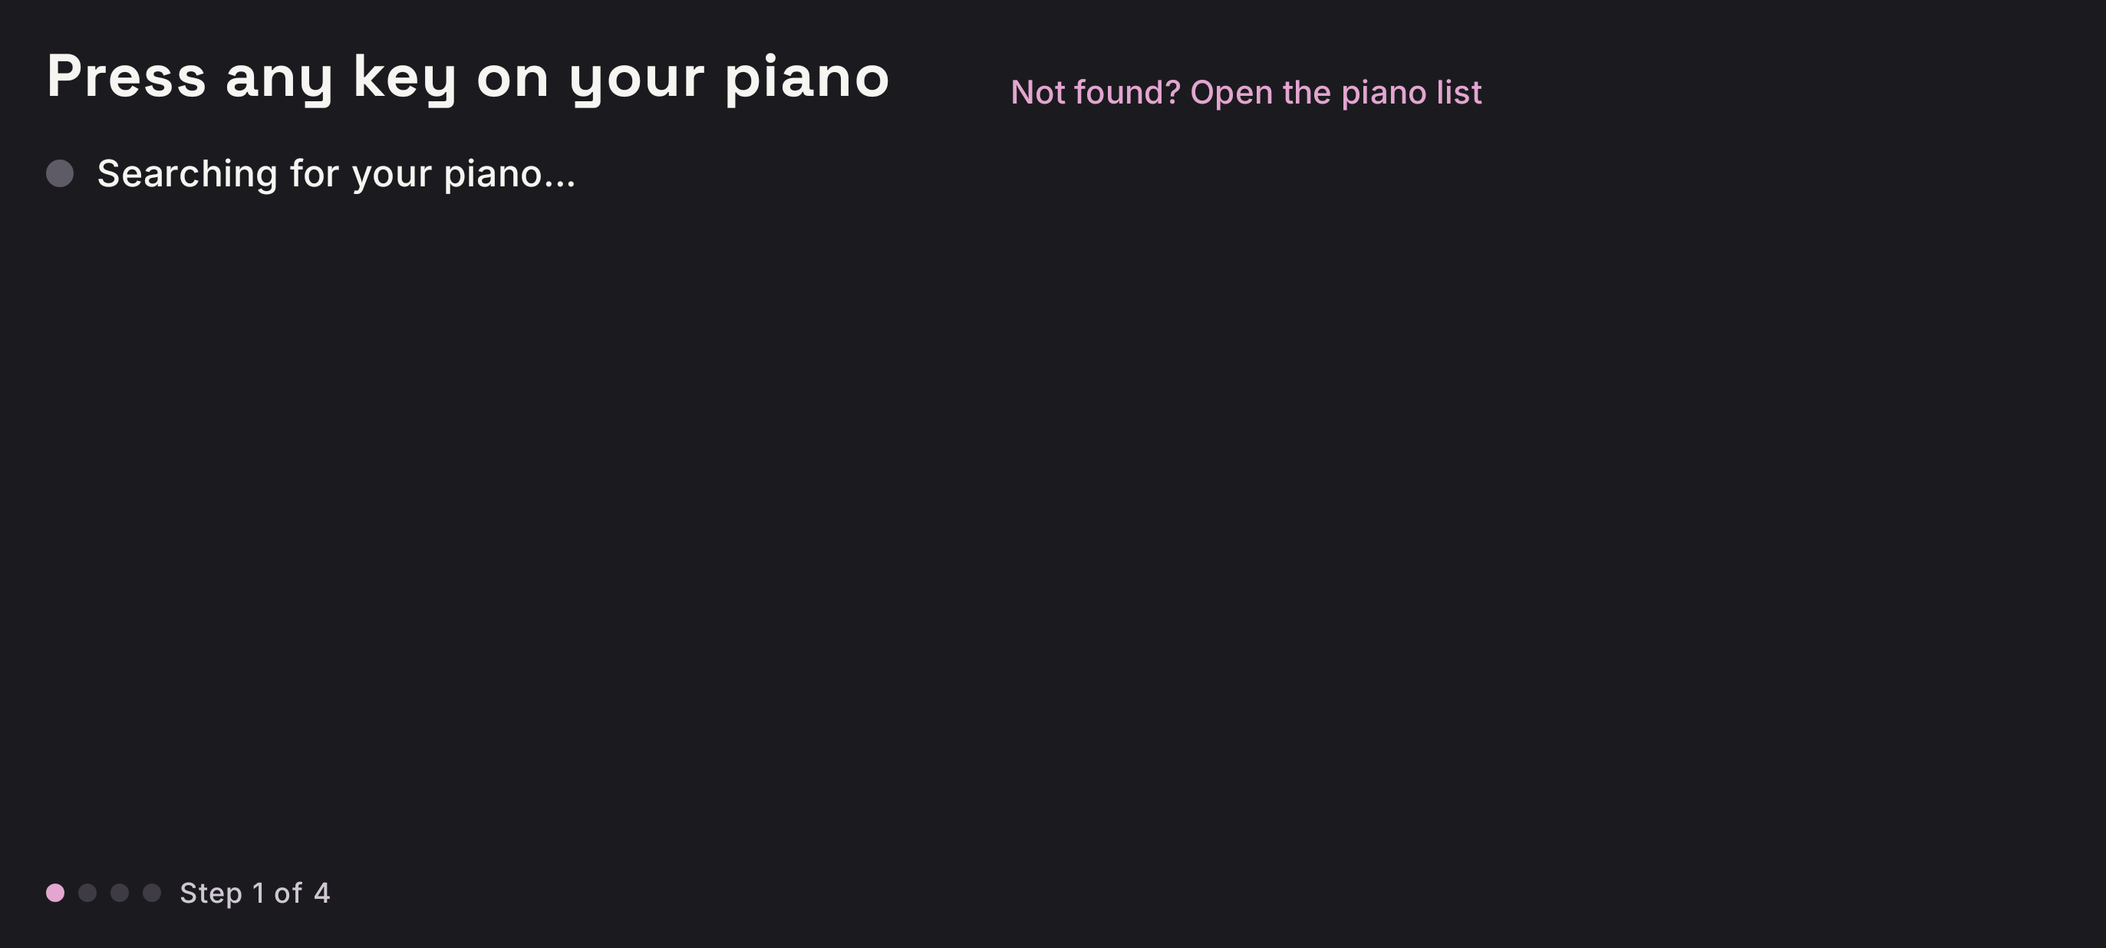
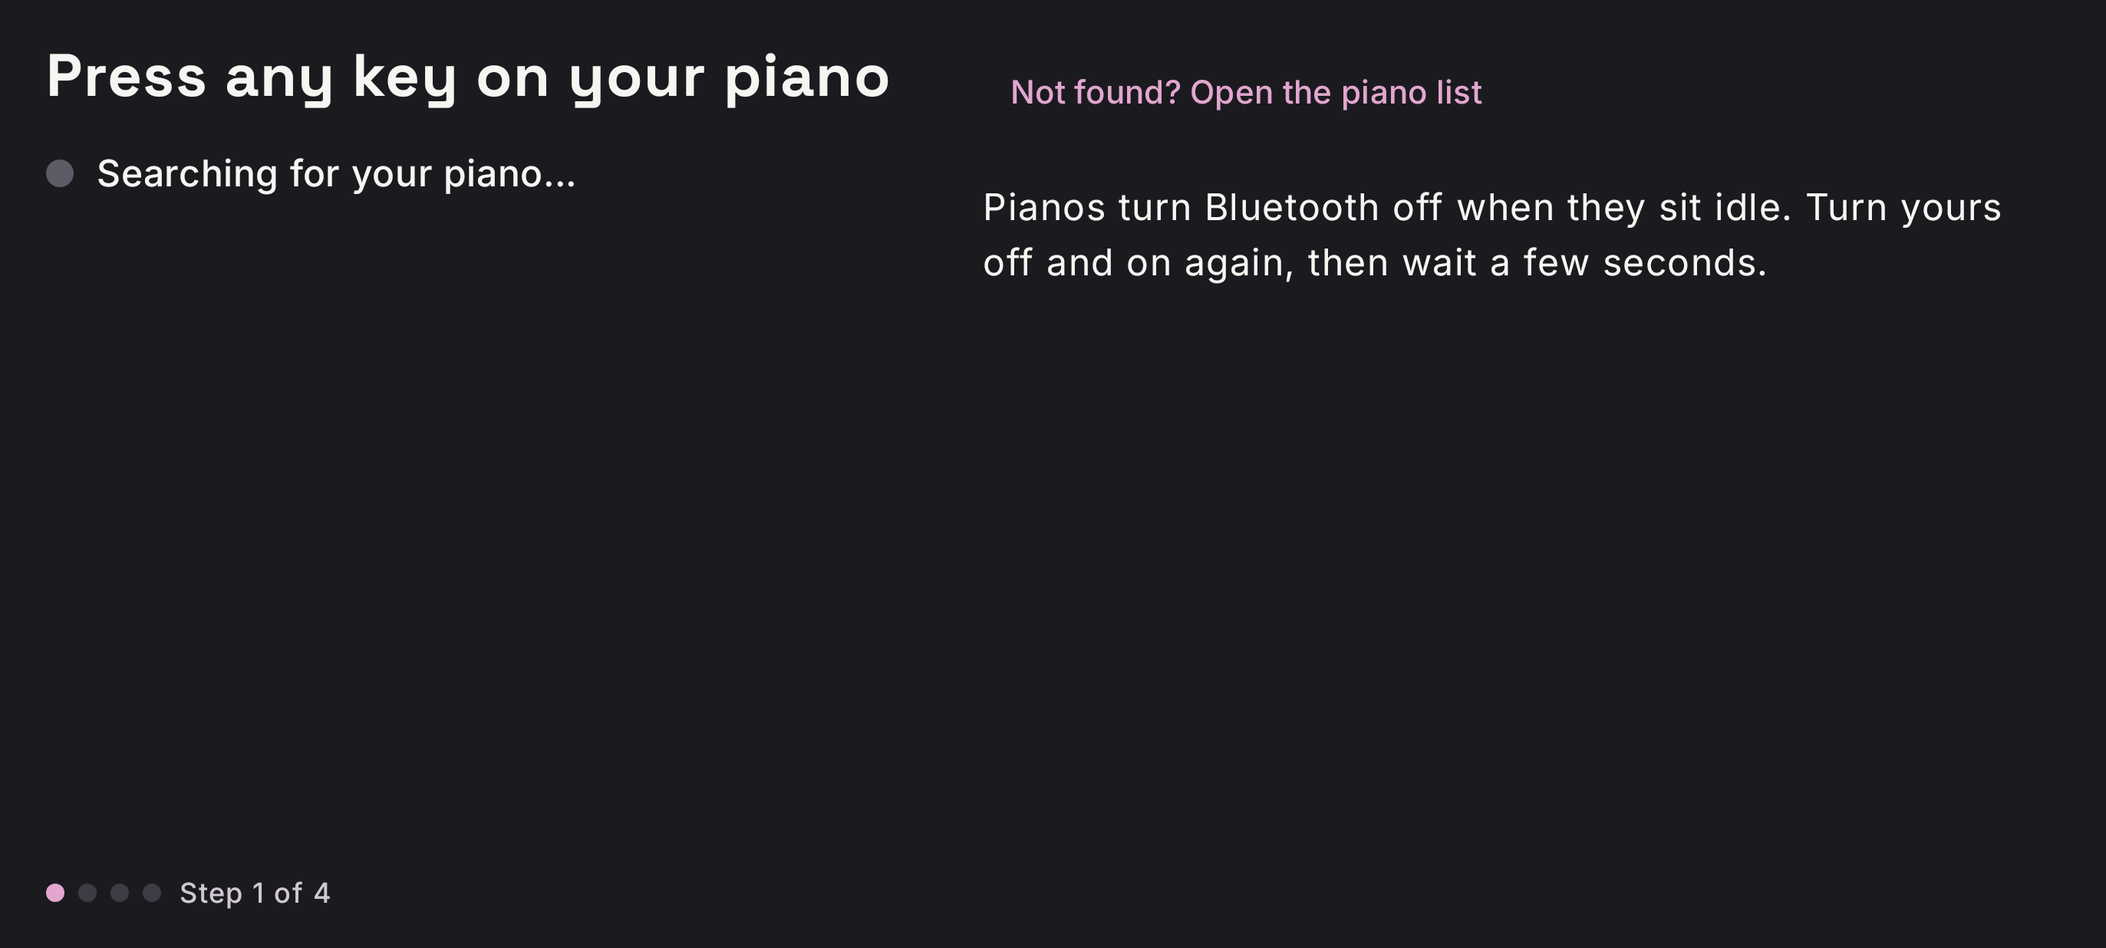
feat(onboarding): connect step says how to continue and why a piano may be missing
Closes #179. The connect step says 'Press any key to continue.' once it names a piano, and under 'Not found?' explains that idle pianos turn Bluetooth off and need a power cycle. Pianos shows the same hint after a scan that ran to its end found nothing with nothing listed (not after a failed or cancelled scan).

Claude-Session: https://claude.ai/code/session_014xjm8ERofQjVfkC4Loyaoe

Changed region(s): [[0.4645, 0.1845, 0.9599, 0.3074]]

diff --git a/feature/monitor/src/commonTest/kotlin/pianoanchor/feature/monitor/MonitorSleepHintTest.kt b/feature/monitor/src/commonTest/kotlin/pianoanchor/feature/monitor/MonitorSleepHintTest.kt
@@ -1,0 +1,131 @@
+package pianoanchor.feature.monitor
+
+import kotlinx.coroutines.Dispatchers
+import kotlinx.coroutines.ExperimentalCoroutinesApi
+import kotlinx.coroutines.test.StandardTestDispatcher
+import kotlinx.coroutines.test.TestScope
+import kotlinx.coroutines.test.advanceTimeBy
+import kotlinx.coroutines.test.resetMain
+import kotlinx.coroutines.test.runCurrent
+import kotlinx.coroutines.test.runTest
+import kotlinx.coroutines.test.setMain
+import pianoanchor.core.model.BluetoothUnavailableException
+import pianoanchor.core.model.MidiDevice
+import pianoanchor.engine.Tunables
+import pianoanchor.testing.FakeClock
+import pianoanchor.testing.FakeInstrumentRepository
+import pianoanchor.testing.FakePiano
+import pianoanchor.testing.FakeSettingsRepository
+import pianoanchor.testing.FakeWallClock
+import kotlin.test.AfterTest
+import kotlin.test.BeforeTest
+import kotlin.test.Test
+import kotlin.test.assertFalse
+import kotlin.test.assertTrue
+import kotlin.time.Instant
+
+/** The "pianos turn Bluetooth off when idle" hint after a scan that finds nothing. */
+@OptIn(ExperimentalCoroutinesApi::class)
+class MonitorSleepHintTest {
+    private val dispatcher = StandardTestDispatcher()
+    private val clock = FakeClock(1_000_000_000)
+    private val piano = FakePiano(clock)
+    private val bluetoothPiano = MidiDevice(id = "ble-piano", name = "BLE Piano")
+
+    @BeforeTest
+    fun setUp() = Dispatchers.setMain(dispatcher)
+
+    @AfterTest
+    fun tearDown() = Dispatchers.resetMain()
+
+    private fun TestScope.monitor(): MonitorViewModel =
+        MonitorViewModel(
+            piano,
+            piano,
+            piano,
+            FakeInstrumentRepository(),
+            FakeSettingsRepository(),
+            clock,
+            FakeWallClock(Instant.parse("2026-11-12T10:00:00Z")),
+            "test",
+        ).also { runCurrent() }
+
+    private suspend fun TestScope.finishScan() = advanceTimeBy(Tunables.BLE_SCAN_TIMEOUT_MS + 1)
+
+    @Test
+    fun aScanThatEndsWithNothingSetsTheHint() =
+        runTest(dispatcher) {
+            piano.unplug()
+            val vm = monitor()
+            vm.scanBluetooth()
+            runCurrent()
+            assertFalse(vm.state.value.sleepHint)
+            finishScan()
+
+            assertTrue(vm.state.value.sleepHint)
+        }
+
+    @Test
+    fun aScanThatFindsAPianoDoesNotSetTheHint() =
+        runTest(dispatcher) {
+            piano.unplug()
+            piano.advertised = listOf(bluetoothPiano)
+            val vm = monitor()
+            vm.scanBluetooth()
+            runCurrent()
+            finishScan()
+
+            assertFalse(vm.state.value.sleepHint)
+        }
+
+    @Test
+    fun aListedPianoMeansNoHint() =
+        runTest(dispatcher) {
+            val vm = monitor()
+            vm.scanBluetooth()
+            runCurrent()
+            finishScan()
+
+            assertFalse(vm.state.value.sleepHint)
+        }
+
+    @Test
+    fun aFailedScanDoesNotSetTheHint() =
+        runTest(dispatcher) {
+            piano.unplug()
+            piano.bluetoothProblem = BluetoothUnavailableException.Reason.BLUETOOTH_OFF
+            val vm = monitor()
+            vm.scanBluetooth()
+            runCurrent()
+
+            assertFalse(vm.state.value.sleepHint)
+        }
+
+    @Test
+    fun startingAScanClearsTheHint() =
+        runTest(dispatcher) {
+            piano.unplug()
+            val vm = monitor()
+            vm.scanBluetooth()
+            runCurrent()
+            finishScan()
+            vm.scanBluetooth()
+            runCurrent()
+
+            assertFalse(vm.state.value.sleepHint)
+        }
+
+    @Test
+    fun aListedDeviceClearsTheHint() =
+        runTest(dispatcher) {
+            piano.unplug()
+            val vm = monitor()
+            vm.scanBluetooth()
+            runCurrent()
+            finishScan()
+            piano.plugIn()
+            runCurrent()
+
+            assertFalse(vm.state.value.sleepHint)
+        }
+}

diff --git a/feature/monitor/src/commonMain/kotlin/pianoanchor/feature/monitor/MonitorViewModel.kt b/feature/monitor/src/commonMain/kotlin/pianoanchor/feature/monitor/MonitorViewModel.kt
@@ -74,7 +74,7 @@ public class MonitorViewModel(
     init {
         viewModelScope.launch {
             input.inputDevices.collect { devices ->
-                mutableState.update { it.copy(devices = devices) }
+                mutableState.update { it.copy(devices = devices, sleepHint = it.sleepHint && devices.isEmpty()) }
             }
         }
         viewModelScope.launch {
@@ -130,6 +130,7 @@ public class MonitorViewModel(
                     it.copy(
                         scanning = true,
                         scanned = emptyList(),
+                        sleepHint = false,
                         error =
                             it.error.takeUnless { e ->
                                 e in
@@ -137,12 +138,22 @@ public class MonitorViewModel(
                             },
                     )
                 }
+                var ranToTheEnd = false
                 try {
                     discovery.scan().collect { found -> mutableState.update { it.copy(scanned = found) } }
+                    ranToTheEnd = true
                 } catch (e: BluetoothUnavailableException) {
                     mutableState.update { it.copy(error = e.toMonitorError()) }
                 } finally {
-                    mutableState.update { it.copy(scanning = false) }
+                    // The hint is for a scan that ran to its end and found nothing: a failed scan has its own error
+                    // card, and a cancelled one (the screen closed) never finished looking.
+                    mutableState.update {
+                        it.copy(
+                            scanning = false,
+                            sleepHint =
+                                ranToTheEnd && it.scanned.isEmpty() && it.devices.isEmpty(),
+                        )
+                    }
                 }
             }
     }

diff --git a/feature/onboarding/src/androidHostTest/kotlin/pianoanchor/feature/onboarding/OnboardingScreenTest.kt b/feature/onboarding/src/androidHostTest/kotlin/pianoanchor/feature/onboarding/OnboardingScreenTest.kt
@@ -49,6 +49,8 @@ class OnboardingScreenTest {
             onNodeWithText("Press any key on your piano").assertExists()
             onNodeWithText("Searching for your piano…").assertExists()
             onNodeWithText("Step 1 of 4").assertExists()
+            onNodeWithText("Press any key to continue.").assertDoesNotExist()
+            onNodeWithText(SLEEP_LINE).assertExists()
             onNodeWithText("Not found? Open the piano list").performClick()
 
             assertEquals(listOf("list"), calls)
@@ -62,6 +64,24 @@ class OnboardingScreenTest {
             onNodeWithText("Press any key on your piano").assertExists()
             onNodeWithText("Connected · FP-30X").assertExists()
             onNodeWithText("Searching for your piano…").assertDoesNotExist()
+            onNodeWithText("Press any key to continue.").assertExists()
+            onNodeWithText(SLEEP_LINE).assertDoesNotExist()
+        }
+
+    @Test
+    fun aPickedPianoSaysAKeyPressContinues() =
+        runComposeUiTest {
+            show(OnboardingState(device = piano))
+
+            onNodeWithText("Press any key to continue.").assertExists()
+        }
+
+    @Test
+    fun searchingDoesNotSayToPressAKeyToContinue() =
+        runComposeUiTest {
+            show(OnboardingState())
+
+            onNodeWithText("Press any key to continue.").assertDoesNotExist()
         }
 
     @Test
@@ -158,3 +178,6 @@ class OnboardingScreenTest {
 private const val LARGE_FONT_SCALE = 2f
 
 private const val SDK = 36
+
+private const val SLEEP_LINE =
+    "Pianos turn Bluetooth off when they sit idle. Turn yours off and on again, then wait a few seconds."

diff --git a/feature/onboarding/src/commonMain/kotlin/pianoanchor/feature/onboarding/OnboardingScreen.kt b/feature/onboarding/src/commonMain/kotlin/pianoanchor/feature/onboarding/OnboardingScreen.kt
@@ -42,8 +42,10 @@ import pianoanchor.core.model.MidiDevice
 import pianoanchor.engine.content.Curriculum
 import pianoanchor.feature.onboarding.resources.Res
 import pianoanchor.feature.onboarding.resources.onboarding_connect_connected
+import pianoanchor.feature.onboarding.resources.onboarding_connect_continue
 import pianoanchor.feature.onboarding.resources.onboarding_connect_not_found
 import pianoanchor.feature.onboarding.resources.onboarding_connect_searching
+import pianoanchor.feature.onboarding.resources.onboarding_connect_sleep
 import pianoanchor.feature.onboarding.resources.onboarding_connect_title
 import pianoanchor.feature.onboarding.resources.onboarding_start_beginning
 import pianoanchor.feature.onboarding.resources.onboarding_start_beginning_summary
@@ -181,7 +183,9 @@ internal fun ConnectionLine(device: MidiDevice?) {
 @Composable
 private fun ConnectLeft(state: OnboardingState) {
     Title(Res.string.onboarding_connect_title)
-    ConnectionLine(state.device ?: state.listed)
+    val piano = state.device ?: state.listed
+    ConnectionLine(piano)
+    if (piano != null) Text(stringResource(Res.string.onboarding_connect_continue))
 }
 
 @Composable
@@ -193,6 +197,7 @@ private fun ConnectRight(
         TextButton(onClick = actions.onOpenPianoList, modifier = Modifier.heightIn(min = TouchTarget)) {
             Text(stringResource(Res.string.onboarding_connect_not_found))
         }
+        Text(stringResource(Res.string.onboarding_connect_sleep))
     }
 }
 

diff --git a/feature/monitor/src/commonMain/kotlin/pianoanchor/feature/monitor/MonitorScreen.kt b/feature/monitor/src/commonMain/kotlin/pianoanchor/feature/monitor/MonitorScreen.kt
@@ -66,6 +66,7 @@ import pianoanchor.feature.monitor.resources.monitor_scan
 import pianoanchor.feature.monitor.resources.monitor_scanned
 import pianoanchor.feature.monitor.resources.monitor_scanning
 import pianoanchor.feature.monitor.resources.monitor_select_device
+import pianoanchor.feature.monitor.resources.monitor_sleep_hint
 import pianoanchor.feature.monitor.resources.monitor_status_connected
 import pianoanchor.feature.monitor.resources.monitor_status_none
 import pianoanchor.feature.monitor.resources.monitor_status_reconnecting
@@ -120,6 +121,7 @@ private fun LazyListScope.devices(
 ) {
     item { SectionTitle(Res.string.monitor_devices) }
     if (state.devices.isEmpty()) item { Text(stringResource(Res.string.monitor_no_devices)) }
+    if (state.sleepHint) item { Text(stringResource(Res.string.monitor_sleep_hint)) }
     items(state.devices, key = { "listed-${it.id}" }) { device ->
         DeviceRow(
             device,

diff --git a/feature/monitor/src/androidHostTest/kotlin/pianoanchor/feature/monitor/MonitorScreenTest.kt b/feature/monitor/src/androidHostTest/kotlin/pianoanchor/feature/monitor/MonitorScreenTest.kt
@@ -47,6 +47,22 @@ class MonitorScreenTest {
         }
 
     @Test
+    fun sleepHintShowsOnlyWhenSet() =
+        runComposeUiTest {
+            var state by mutableStateOf(MonitorState())
+            setContent { PianoAnchorTheme { MonitorScreen(state, MonitorActions()) } }
+            val hint =
+                "Pianos turn Bluetooth off when they sit idle. " +
+                    "Turn yours off and on again, then wait a few seconds."
+
+            onNodeWithText(hint).assertDoesNotExist()
+            state = MonitorState(sleepHint = true)
+
+            onNodeWithText("No piano found", substring = true).assertExists()
+            onNodeWithText(hint).assertExists()
+        }
+
+    @Test
     fun nullCallbacksHideTheButtons() =
         runComposeUiTest {
             setContent {

diff --git a/feature/monitor/src/commonMain/kotlin/pianoanchor/feature/monitor/MonitorState.kt b/feature/monitor/src/commonMain/kotlin/pianoanchor/feature/monitor/MonitorState.kt
@@ -22,6 +22,11 @@ public data class MonitorState(
     val error: MonitorError? = null,
     val instrument: Instrument? = null,
     val lastPiano: MidiDevice? = null,
+    /**
+     * True after a Bluetooth scan ended with no new piano while no piano is listed; cleared when a scan starts or a
+     * piano appears.
+     */
+    val sleepHint: Boolean = false,
 )
 
 /** The link to the selected device. */

diff --git a/feature/monitor/src/androidHostTest/kotlin/pianoanchor/feature/monitor/MonitorScreenScreenshotTest.kt b/feature/monitor/src/androidHostTest/kotlin/pianoanchor/feature/monitor/MonitorScreenScreenshotTest.kt
@@ -50,6 +50,9 @@ class MonitorScreenScreenshotTest {
     fun empty() = capture("empty", MonitorState())
 
     @Test
+    fun sleepHint() = capture("sleep_hint", MonitorState(sleepHint = true))
+
+    @Test
     fun scanning() = capture("scanning", MonitorState(devices = listOf(usbPiano), scanning = true))
 
     @Test

diff --git a/docs/ROADMAP.md b/docs/ROADMAP.md
@@ -48,43 +48,38 @@ Checks that need a phone and a piano are under "Owner device checks", not here.
 2. **Automatic link latency** (spec #172; owner's hardware check; ADR 0025): timed runs measure the piano's link delay
     with Identity Request round trips; calibration leaves the onboarding and the first-run card; tap calibration becomes
     the optional "Fine-tune timing" with a 45 ms spread limit.
-3. **Connect step says what to do and why a piano may be missing** (spec #179; owner's hardware check): the step has no
-    button, and the owner looked for one; say under the connected line that a key press continues (e.g. "Press any
-    key to continue"). A piano left idle turns its Bluetooth off (the owner's went quiet after about 15 minutes and
-    only a power cycle brought it back), so the "Not found?" hint, and the Pianos screen when a scan finds nothing,
-    should say a piano may have gone to sleep: turn it off and on again.
-4. **Beginner course: the new map** (spec #181): rebuild Units 0–3 to the course map (23 concepts), moving,
+3. **Beginner course: the new map** (spec #181): rebuild Units 0–3 to the course map (23 concepts), moving,
     keeping or dropping each existing passage; skill prerequisites suggest the next lesson but lock nothing.
-5. **Beginner course: concept cards** (spec #182; design in `docs/course/beginner-course.md`, ADR 0026) [#181]: a typed
+4. **Beginner course: concept cards** (spec #182; design in `docs/course/beginner-course.md`, ADR 0026) [#181]: a typed
     concept card (what, why, how, when) per concept in the curriculum, a content test that fails on an empty field,
     and the cards for all 23 concepts of the map.
-6. **Beginner course: Try checks** (spec #188) [#181]: one small piano-checked task per course concept and a pure
+5. **Beginner course: Try checks** (spec #188) [#181]: one small piano-checked task per course concept and a pure
     evaluator, for the lesson's Try step and the review quizzes.
-7. **Beginner course: five-step lesson screen** (spec #189) [#188]: Why → See → Try → Use → Recap in the landscape
+6. **Beginner course: five-step lesson screen** (spec #189) [#188]: Why → See → Try → Use → Recap in the landscape
     layout, resuming at the last step; Today's "Next" card and the course map ticks.
-8. **Beginner course: gentle practice feedback** (spec #190): grey wrong key with the right key glowing and one
+7. **Beginner course: gentle practice feedback** (spec #190): grey wrong key with the right key glowing and one
     landmark line, a visible "3, 2, 1, Play!", hear it first, and Unit 0 without the staff.
-9. **Beginner course: card animations, Unit 0** (spec #191) [#189]: the shared scene model and renderer that keep
+8. **Beginner course: card animations, Unit 0** (spec #191) [#189]: the shared scene model and renderer that keep
     every card's animation consistent, and the Unit 0 scenes.
-10. **Beginner course: card animations, Unit 1** (spec #192) [#191]: the Unit 1 scenes.
-11. **Beginner course: card animations, Unit 2** (spec #193) [#191]: the Unit 2 scenes.
-12. **Beginner course: card animations, Unit 3** (spec #194) [#191]: the Unit 3 scenes.
-13. **Beginner course: Results in words** (spec #187): say what happened (started late, notes held short, extra
+9. **Beginner course: card animations, Unit 1** (spec #192) [#191]: the Unit 1 scenes.
+10. **Beginner course: card animations, Unit 2** (spec #193) [#191]: the Unit 2 scenes.
+11. **Beginner course: card animations, Unit 3** (spec #194) [#191]: the Unit 3 scenes.
+12. **Beginner course: Results in words** (spec #187): say what happened (started late, notes held short, extra
     notes) and one tip; the numbers move behind "Details".
-14. **Beginner course: review quizzes** (spec #195) [#189]: 10–20 s piano-checked quizzes of due concepts, up to 3 in
+13. **Beginner course: review quizzes** (spec #195) [#189]: 10–20 s piano-checked quizzes of due concepts, up to 3 in
     Today's warm-up, rated by mistakes into the review planner.
-15. **Ear grading in the engine** (follow-up of the M4 cleanup; mechanical): `EarViewModel` decides an item's outcome
+14. **Ear grading in the engine** (follow-up of the M4 cleanup; mechanical): `EarViewModel` decides an item's outcome
     (first try, recovered, missed) and redraws repeated items with its own limit of 20; move both into `EarGrading` and
     `EarGenerator` (the limit into `Tunables`) so the rules sit under the engine's tests.
-16. **One Today start action** (follow-up of the M4 cleanup; mechanical): the Ear card has its own `target` overload and
+15. **One Today start action** (follow-up of the M4 cleanup; mechanical): the Ear card has its own `target` overload and
     `onStartEar` action, so `MainActivity` repeats the `when (TodayTarget)` with branches that can't happen; give
     `TodayViewModel` one `target(card)` and `TodayActions` one `onStart(card)`.
-17. **Spot attempts under the piece's id** (follow-up of the M5 cleanup; needs an owner decision on run numbering): spot
+16. **Spot attempts under the piece's id** (follow-up of the M5 cleanup; needs an owner decision on run numbering): spot
     loops save their attempts under the slice's id (`…#bars5-6`) and also set `Attempt.spot`, so the full-passage
     queries' spot filters never match a row, the loop's done-rung refresh always reads an empty set and `run N` counts
     loops apart from the piece. Save them under the piece's id and rely on `spot` alone (then drop the id suffix and
     `sourcePassageId`); this changes stored data and run numbers.
-18. **One hint level for the run** (follow-up of the M5 cleanup; mechanical): `PracticeViewModel` still checks perform
+17. **One hint level for the run** (follow-up of the M5 cleanup; mechanical): `PracticeViewModel` still checks perform
     mode by hand where it starts hints; give the run an effective level (OFF in perform) so `loadHints` and
     `startHintStep` read only that, and keep the Hint button's own guard.
 

diff --git a/docs/ui/living-studio.md b/docs/ui/living-studio.md
@@ -191,8 +191,10 @@ that is the connection line and buttons, the "Not found?" hint or the start-poin
 1. **Press any key on your piano**: the line "Searching for your piano…" becomes "Connected · FP-30X" (polite live
    region) as soon as a piano is listed (a Bluetooth piano once the scan has connected it), and the first note on any
    listed input picks that piano. A listed piano that drops keeps the line for 5 s, since a Bluetooth link often
-   comes back by itself. After 30 s without a note, the button "Not found? Open the piano list" opens Pianos,
-   with the Bluetooth pianos the search connected still connected; the back button or gesture returns here.
+   comes back by itself. While the line names a piano, plain text under it says "Press any key to continue." (the
+   first note moves on; there is no Continue button). After 30 s without a note, the button "Not found? Open the piano list" opens Pianos,
+   with the Bluetooth pianos the search connected still connected; the back button or gesture returns here. Under that
+   button a line explains that pianos turn Bluetooth off when idle and need switching off and on again.
 2. **Hear it, then play it back**: a card with five keys (C to G, C, E and G in the primary container colour). The piano
    plays C4, E4, G4 (500 ms apart, velocity 80), the card says "Play C, E, G" and any octave counts. A piano with no MIDI
    output skips the playing; the keys are then read as "C, play this key". A match says "You just played your first chord
@@ -236,7 +238,9 @@ per piece in content order. Cards are at least 56 dp high; the grid scrolls and 
 Landscape: a header across the top (back arrow when it was opened from another screen, and the title; the settings gear
 lives on Today), then two panes. The left pane (about 45%) holds the error card, the devices list, the Scan button,
 the scanned pianos, the connection status, the practice, calibrate and record buttons and the contribution kit; the
-right pane (the rest) is the note log. Each pane scrolls on its own.
+right pane (the rest) is the note log. Each pane scrolls on its own. When a Bluetooth scan ends with no piano found
+and none listed, a line under "No piano found" says pianos turn Bluetooth off when idle and need switching off and on
+again; it goes when a scan starts or a piano is listed.
 
 The piano connected last through onboarding or Pianos is remembered. Its row on Pianos (when it is listed) has a
 "Forget" text button (TalkBack: "Forget FP-30X"): it disconnects the piano and stops Today reconnecting it.
